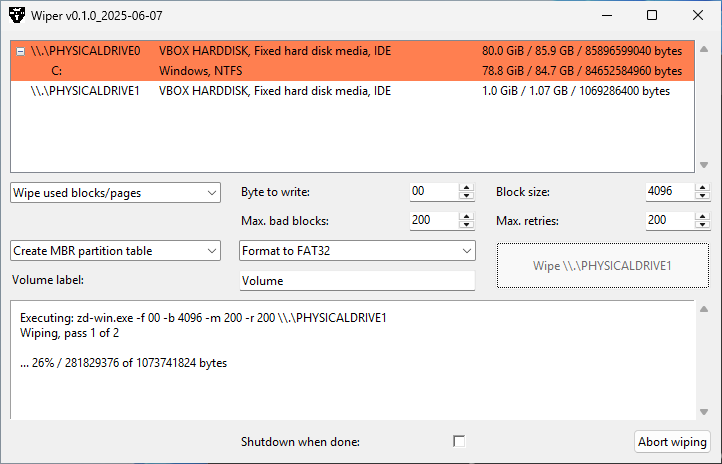
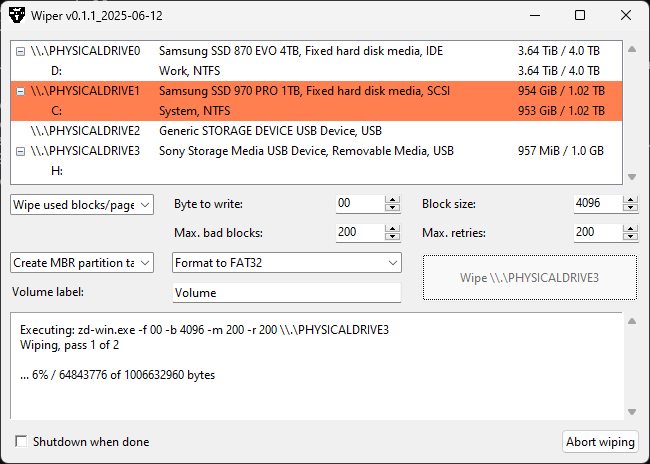
Version 0.1.1

diff --git a/wiper.py b/wiper.py
@@ -3,7 +3,7 @@
 
 __application__ = 'Wiper'
 __description__ = 'Windows GUI tool to securely wipe drives with option to treat SSDs gently.'
-__version__ = '0.1.1_2025-06-08'
+__version__ = '0.1.1_2025-06-12'
 __status__ = 'Testing'
 __license__ = 'GPL-3'
 __author__ = 'Markus Thilo'
@@ -35,7 +35,10 @@ class WorkThread(Thread):
 		super().__init__()
 		self._finish = finish
 		self._kill_event = Event()
-		self._worker = Wipe(target_id, echo=echo, kill=self._kill_event, finish=self._finish)
+		try:
+			self._worker = Wipe(target_id, echo=echo, kill=self._kill_event, finish=self._finish)
+		except Exception as ex:
+			self._finish(ex)
 
 	def kill(self):
 		'''Kill thread'''
@@ -52,8 +55,6 @@ class WorkThread(Thread):
 			returncode = self._worker.run()
 		except Exception as ex:
 			returncode = ex
-		if self.kill_is_set():
-			returncode = 'killed'
 		CoUninitialize()
 		self._finish(returncode)
 
@@ -82,11 +83,10 @@ class Gui(Tk):
 				self._forbidden_ids.add(drive_id)
 		self._drive_dump = None	# to check for changes
 		self.title(f'{__application__} v{__version__}')	### define the gui ###
-		self.rowconfigure(0, weight=1)
-		self.rowconfigure(5, weight=4)
-		self.columnconfigure(0, weight=1)
-		self.columnconfigure(1, weight=1)
-		self.columnconfigure(2, weight=1)
+		for row, weight in enumerate(self._defs.row_weights):
+			self.rowconfigure(row, weight=weight)
+		for column, weight in enumerate(self._defs.column_weights):
+			self.columnconfigure(column, weight=weight)
 		self.iconphoto(True, PhotoImage(file=__parent_path__ / 'appicon.png'))
 		self.protocol('WM_DELETE_WINDOW', self._quit_app)
 		self._font = nametofont('TkTextFont').actual()
@@ -201,22 +201,21 @@ class Gui(Tk):
 		self._info_fg = self._info_text.cget('foreground')
 		self._info_bg = self._info_text.cget('background')
 		self._info_newline = True
+		self._shutdown = BooleanVar(value=False)	### shutdown after finish
+		self._shutdown_button = Checkbutton(self,
+			text = self._labels.shutdown,
+			variable = self._shutdown,
+			command = self._toggle_shutdown
+		)
+		self._shutdown_button.grid(row=6, column=0, sticky='nsw', padx=self._pad, pady=(0, self._pad))
+		Hovertip(self._shutdown_button, self._labels.shutdown_tip)
 		self._info_label = Label(self)	### info label ###
-		self._info_label.grid(row=6, column=0, sticky='nsew', padx=self._pad, pady=(0, self._pad))
+		self._info_label.grid(row=6, column=1, sticky='nsw', padx=self._pad, pady=(0, self._pad))
 		self._label_fg = self._info_label.cget('foreground')
 		self._label_bg = self._info_label.cget('background')
-		self._shutdown = BooleanVar(value=False)	### shutdown after finish
-		frame = Frame(self)
-		frame.grid(row=6, column=1, sticky='nwe', pady=(0, self._pad))
-		label = Label(frame, text=f'{self._labels.shutdown}:')
-		label.pack(side='left', padx=self._pad)
-		self._shutdown_button = Checkbutton(frame, variable=self._shutdown, command=self._toggle_shutdown)
-		self._shutdown_button.pack(side='right', padx=self._pad)
-		Hovertip(frame, self._labels.shutdown_tip)
-		Hovertip(label, self._labels.shutdown_tip)
-		self._quit_text = StringVar(value=self._labels.quit)
-		self._quit_button = Button(self, textvariable=self._quit_text, command=self._quit_app)	### quit ###
-		self._quit_button.grid(row=6, column=2, sticky='e', padx=self._pad, pady=(0, self._pad))
+		self._quit_text = StringVar(value=self._labels.quit)	### quit ###
+		self._quit_button = Button(self, textvariable=self._quit_text, command=self._quit_app)
+		self._quit_button.grid(row=6, column=2, sticky='nse', padx=self._pad, pady=(0, self._pad))
 		Hovertip(self._quit_button, self._labels.quit_tip)
 		if windll.shell32.IsUserAnAdmin() == 0:
 			msg = self._labels.admin_required.replace('#', __application__)
@@ -492,6 +491,36 @@ class Gui(Tk):
 		else:
 			run(['shutdown', '/s'])
 
+	def _shutdown_dialog(self):
+		'''Show shutdown dialog'''
+		self._shutdown_window = Toplevel(self)
+		self._shutdown_window.title(self._labels.warning)
+		self._shutdown_window.transient(self)
+		self._shutdown_window.focus_set()
+		self._shutdown_window.resizable(False, False)
+		self._shutdown_window.grab_set()
+		frame = Frame(self._shutdown_window, padding=self._pad)
+		frame.pack(fill='both', expand=True)
+		Label(frame,
+			text = '\u26A0',
+			font = (self._font['family'], self._font['size'] * self._defs.symbol_factor),
+			foreground = self._defs.symbol_fg,
+			background = self._defs.symbol_bg
+		).pack(side='left', padx=self._pad, pady=self._pad)
+		Label(frame, text=self._labels.shutdown_question, anchor='s').pack(
+			side='right', fill='both', padx=self._pad, pady=self._pad
+		)
+		frame = Frame(self._shutdown_window, padding=self._pad)
+		frame.pack(fill='both', expand=True)
+		self._delay_progressbar = Progressbar(frame, mode='determinate', maximum=self._defs.shutdown_delay)
+		self._delay_progressbar.pack(side='top', fill='x', padx=self._pad, pady=self._pad)
+		cancel_button = Button(frame, text=self._labels.cancel_shutdown, command=self._shutdown_window.destroy)
+		cancel_button.pack(side='bottom', fill='both', padx=self._pad, pady=self._pad)
+		self.update_idletasks()
+		self._shutdown_cnt = 0
+		self._delay_shutdown()
+		self._shutdown_window.wait_window(self._shutdown_window)
+
 	def echo(self, *args, end=None):
 		'''Write message to info field (ScrolledText)'''
 		msg = ' '.join(f'{arg}' for arg in args)
@@ -506,49 +535,20 @@ class Gui(Tk):
 
 	def finished(self, returncode):
 		'''Run this when worker has finished copy process'''
-		if returncode == 'killed':
-			self._reset()
-			return
-		if self._shutdown.get():	### Shutdown dialog ###
-			self._shutdown_window = Toplevel(self)
-			self._shutdown_window.title(self._labels.warning)
-			self._shutdown_window.transient(self)
-			self._shutdown_window.resizable(False, False)
-			self._shutdown_window.grab_set()
-			frame = Frame(self._shutdown_window, padding=self._pad)
-			frame.pack(fill='both', expand=True)
-			Label(frame,
-				text = '\u26A0',
-				font = (self._font['family'], self._font['size'] * self._defs.symbol_factor),
-				foreground = self._defs.symbol_fg,
-				background = self._defs.symbol_bg
-			).pack(side='left', padx=self._pad, pady=self._pad)
-			Label(frame, text=self._labels.shutdown_question, anchor='s').pack(
-				side='right', fill='both', padx=self._pad, pady=self._pad
-			)
-			frame = Frame(self._shutdown_window, padding=self._pad)
-			frame.pack(fill='both', expand=True)
-			self._delay_progressbar = Progressbar(frame, mode='determinate', maximum=self._defs.shutdown_delay)
-			self._delay_progressbar.pack(side='top', fill='x', padx=self._pad, pady=self._pad)
-			cancel_button = Button(frame, text=self._labels.cancel_shutdown, command=self._shutdown_window.destroy)
-			cancel_button.pack(side='bottom', fill='both', padx=self._pad, pady=self._pad)
-			self.update_idletasks()
-			pos_x = self.winfo_rootx() + (self.winfo_width() // 2)
-			pos_y = self.winfo_rooty() + (self.winfo_height() // 2)
-			self._shutdown_window.geometry(f'+{pos_x}+{pos_y}')
-			self._shutdown_cnt = 0
-			self._delay_shutdown()
-		if isinstance(returncode, Exception):
-			self._info_text.configure(foreground=self._defs.red_fg, background=self._defs.red_bg)
-			self._warning_state = 'enable'
-			showerror(
-				title = self._labels.error, 
-				message = f'{self._labels.aborted_on_error}\n\n{type(returncode)}:\n{returncode}'
-			)
-		elif returncode:
-			self._info_text.configure(foreground=self._defs.green_fg, background=self._defs.green_bg)
-		else:
-			showwarning(title=self._labels.warning, message=self._labels.warnings_occured)
+		if returncode:
+			if self._shutdown.get():	### Shutdown dialog ###
+				self._shutdown_dialog()
+			if isinstance(returncode, Exception):
+				self._enable_warning()
+				showerror(
+					title = self._labels.error, 
+					message = f'{self._labels.aborted_on_error}\n\n{type(returncode)}:\n{returncode}'
+				)
+			elif isinstance(returncode, str):
+				self._enable_warning()
+				showwarning(title=self._labels.warning, message=self._labels.process_returned.replace('#', returncode))
+			else:
+				self._info_text.configure(foreground=self._defs.green_fg, background=self._defs.green_bg)
 		self._reset()
 
 if __name__ == '__main__':  # start here when run as application

diff --git a/worker.py b/worker.py
@@ -83,12 +83,10 @@ class Wipe:
 				self._echo('')
 			else:
 				self._info(msg)
-			if self._kill and self._kill.is_set():
-				self.zd_proc.kill()
-		if 	self._kill and self._kill.is_set():
-			self._info(self._labels.aborted_by_user)
-			logging.shutdown()
-			return 'killed'
+			if self._check_kill_signal():
+				zd_proc.terminate()
+				zd_proc.wait()
+				return
 		if stderr := zd_proc.stderr.read().strip():
 			if stderr.startswith('Error: found bad blocks:'):
 				msg = self._labels.bad_blocks_error.replace('#', stderr)
@@ -125,10 +123,8 @@ class Wipe:
 						verified_id_list.append(volume_id)
 					if verified_id_list:
 						for cnt, volume_id in enumerate(id_list):
-							if self._kill and self._kill.is_set():
-								self._info(self._labels.aborted_by_user)
-								logging.shutdown()
-								return('killed')
+							if self._check_kill_signal():
+								return
 							if cnt == 0:
 								self._info(self._labels.running_diskpart)
 							else:
@@ -168,36 +164,36 @@ class Wipe:
 			else:
 				self._warning(self._labels.warning_assign.replace('#', f'{drive_path}'))
 			self._warnings = True
+		self._info(self._labels.finished)
 		if self._warnings:
 			self._warning(self._labels.warnings_occured)
-			logging.shutdown()
-			return
-		self._info(self._labels.finished)
+		else:
+			returncode = True
 		logging.shutdown()
-		return True
+		return returncode
 
 	def _info(self, msg):
 		'''Log info and echo message'''
 		logging.info(msg)
 		self._echo(msg)
 
-	def _decode_exception(self, arg):
-		'''Decode exception'''
-		return f'{type(arg)}: {arg}' if isinstance(arg, Exception) else str(arg)
-
-	def _warning(self, arg):
+	def _warning(self, msg):
 		'''Log and echo warning'''
-		msg = self._decode_exception(arg)
 		logging.warning(msg)
-		self._echo(msg)
-		self._warnings = True
+		self._echo( f'{self._labels.warning}: msg')
 
-	def _error(self, arg):
-		'''Log and raise exception'''
-		msg = self._decode_exception(arg)
+	def _error(self, msg):
+		'''Log and echo error'''
 		logging.error(msg)
-		self._echo(msg)
 		logging.shutdown()
-		if isinstance(arg, Exception):
-			raise arg
-		raise RuntimeError(msg)
+		returncode = f'{self._labels.error}: msg'
+		self._echo(returncode)
+		return returncode
+
+	def _check_kill_signal(self):
+		'''Check if kill signal is set'''
+		if self._kill and self._kill.is_set():
+			self._info(self._labels.aborting_by_user)
+			logging.shutdown()
+			return True
+		return False

diff --git a/classes_wiper.py b/classes_wiper.py
@@ -47,7 +47,7 @@ class Size(int):
 			raise ValueError('Size must be positive')
 		iec, rnd_iec = _round(('PiB', 2**50), ('TiB', 2**40), ('GiB', 2**30), ('MiB', 2**20), ('kiB', 2**10))
 		si, rnd_si = _round(('PB', 10**15), ('TB', 10**12), ('GB', 10**9), ('MB', 10**6), ('kB', 10**3))
-		return (f'{iec} / {si} / ' if rnd_iec or rnd_si else '') + f'{int(self)} ' + ('byte' if self == 1 else 'bytes')
+		return (f'{iec} / {si}') if rnd_iec or rnd_si else f'{int(self)} B'
 
 	def __add__(self, other):
 		'''Plus'''

diff --git a/README.md b/README.md
@@ -30,7 +30,13 @@ Be aware that Nuitka might not work with the newest Python version.
 
 ## Download
 
-Download the latest release from GitHub and unpack it anywhere. It is a portable application. No installation is required.
+Download the latest release from GitHub and unpack anywhere. The application is portable. No installation is required.
+
+It might be necessary to tweak BitDefender. The file wiper.exe could be classified as critical but the file or the entire Wiper folder can be added as an exception. To do so, access the following settings:
+
+`Settings > Windows Security > Virus & threat protection > Virus & thread protection settings > Manage settings > Exclusions > Add or remove exclusions`
+
+If the application is run as administrator. If you do not have the required privileges, there is no way to maske it work.
 
 ## Language
 
